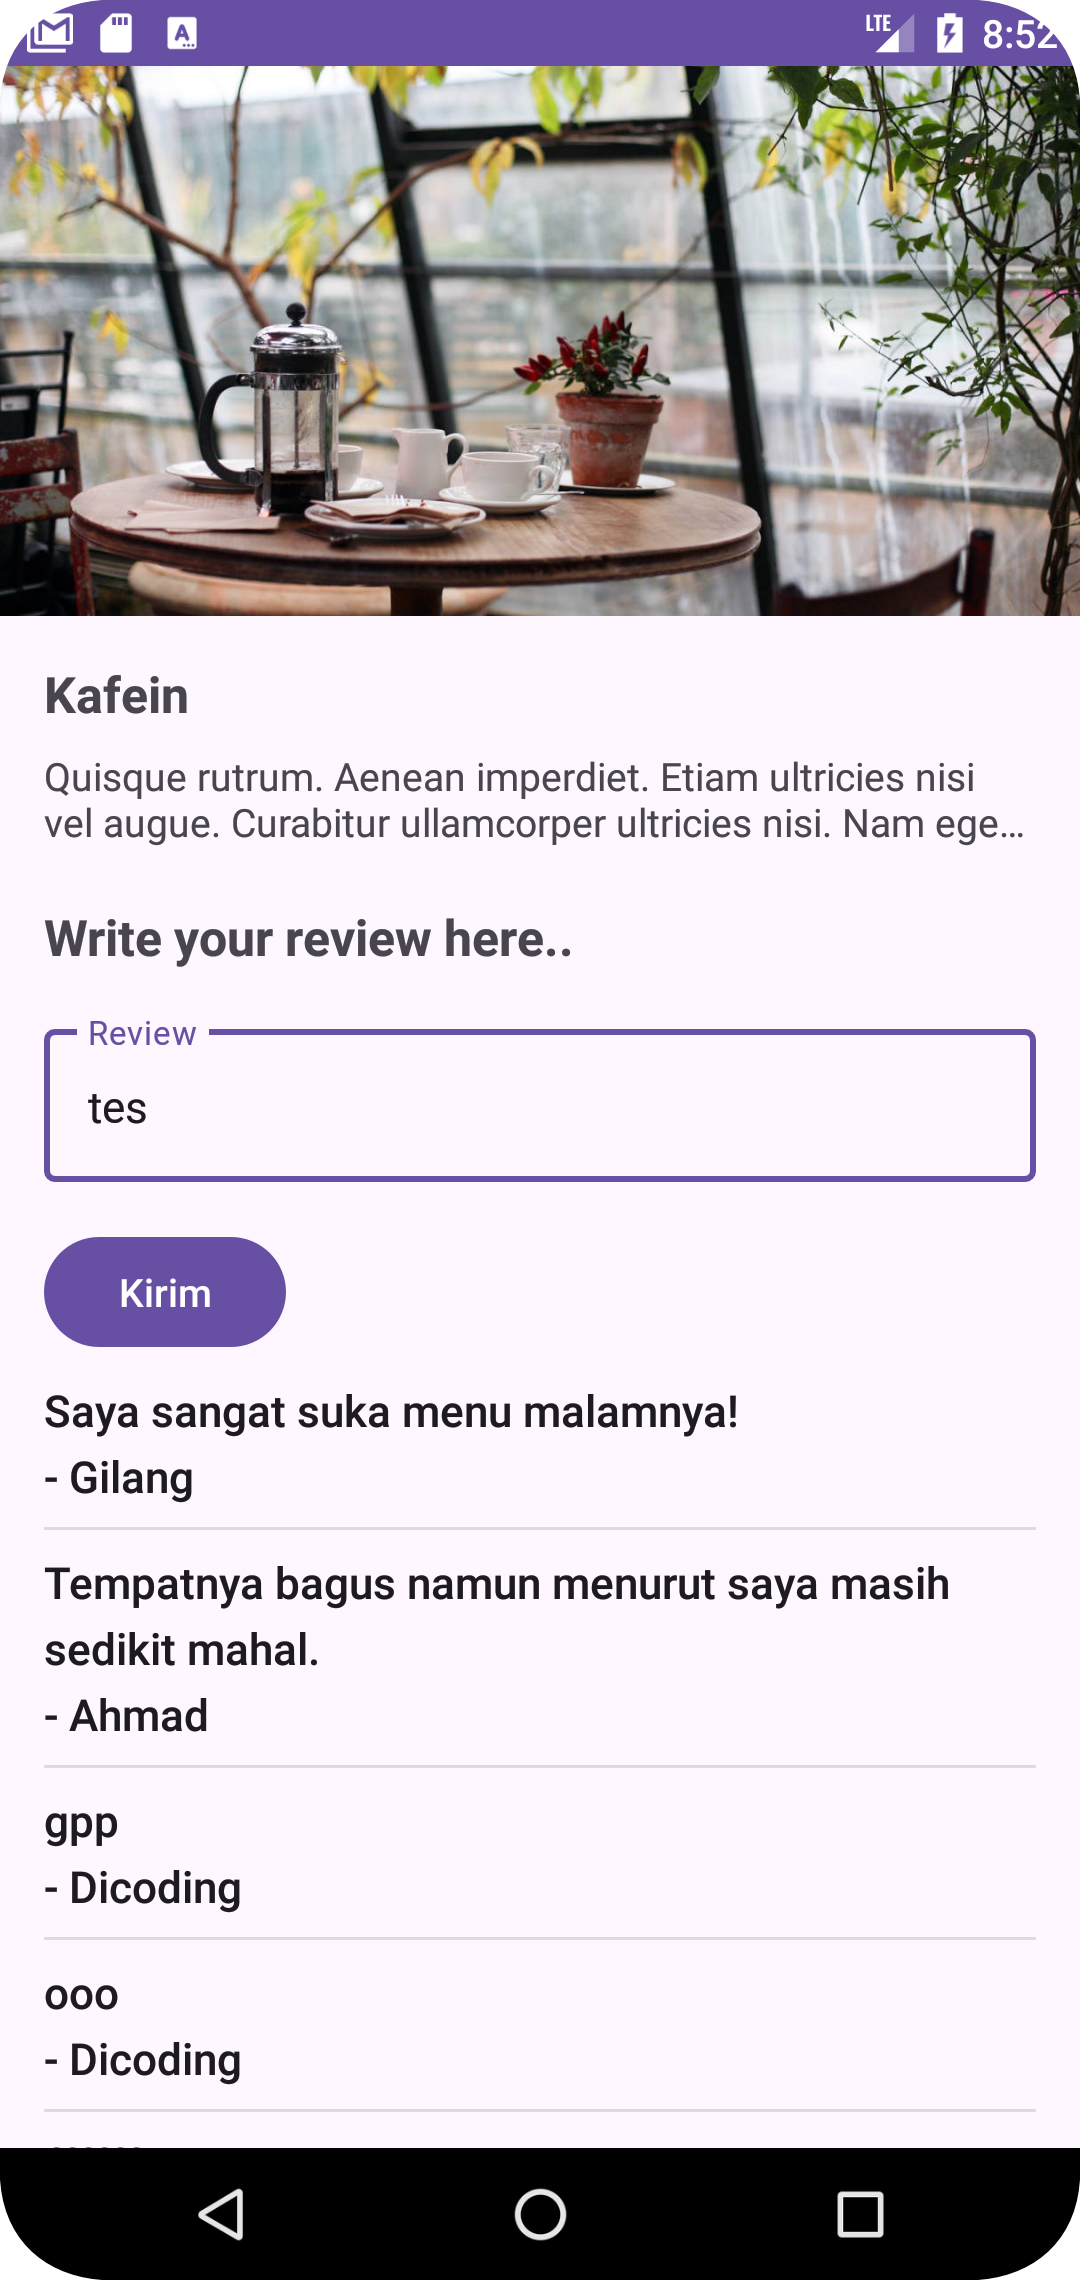
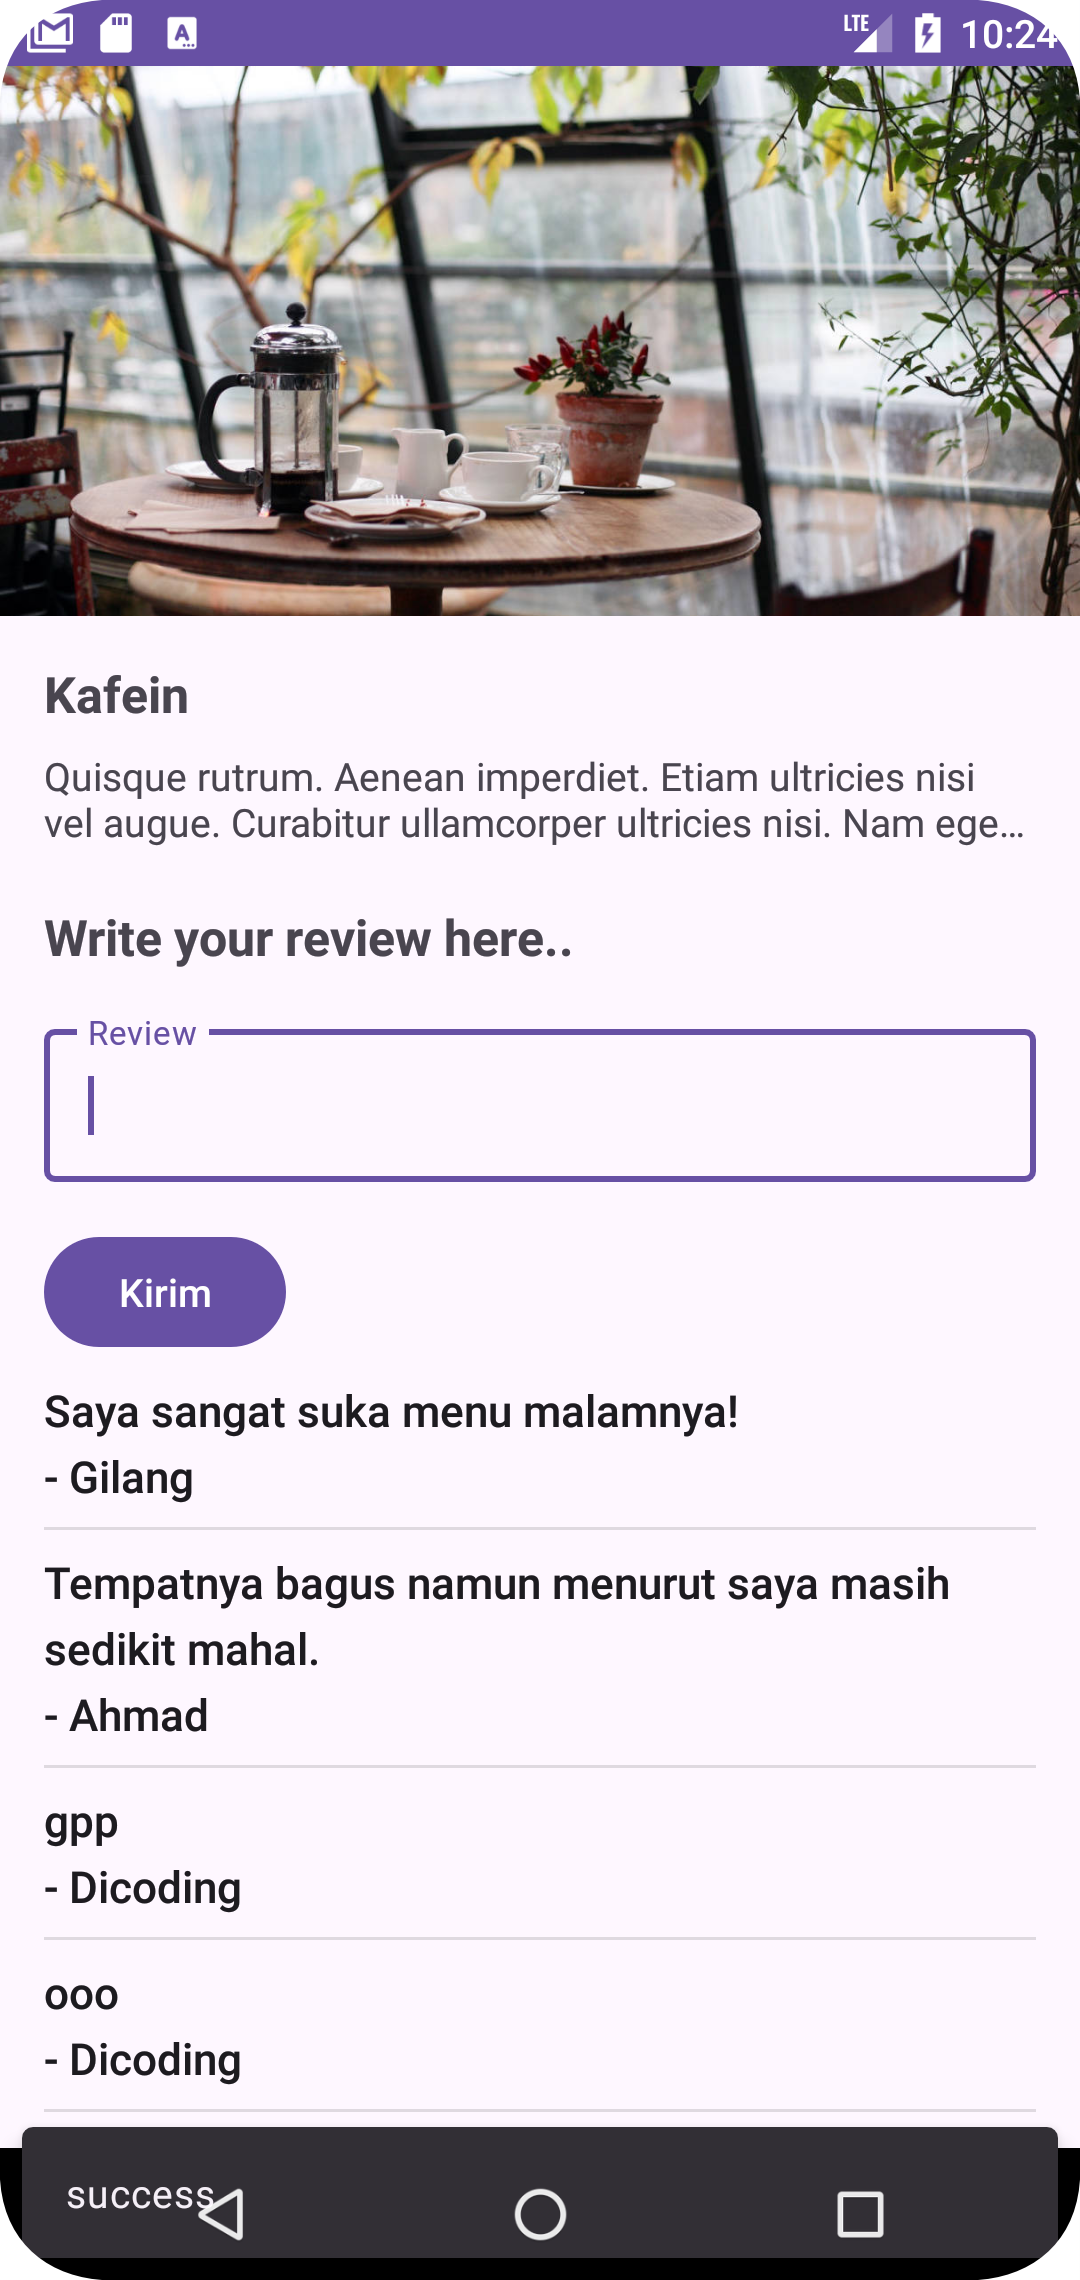
Implementing LiveData with Single Event.

diff --git a/app/src/main/java/com/kisahcode/fundamentalandroid/ui/MainViewModel.kt b/app/src/main/java/com/kisahcode/fundamentalandroid/ui/MainViewModel.kt
@@ -9,6 +9,7 @@ import com.kisahcode.fundamentalandroid.data.response.PostReviewResponse
 import com.kisahcode.fundamentalandroid.data.response.Restaurant
 import com.kisahcode.fundamentalandroid.data.response.RestaurantResponse
 import com.kisahcode.fundamentalandroid.data.retrofit.ApiConfig
+import com.kisahcode.fundamentalandroid.utils.Event
 import retrofit2.Call
 import retrofit2.Callback
 import retrofit2.Response
@@ -29,6 +30,10 @@ class MainViewModel : ViewModel() {
     // LiveData to indicate loading state
     private val _isLoading = MutableLiveData<Boolean>()
     val isLoading: LiveData<Boolean> = _isLoading
+
+    // LiveData for the snackbar text
+    private val _snackbarText = MutableLiveData<Event<String>>()
+    val snackbarText: LiveData<Event<String>> = _snackbarText
 
     companion object{
         private const val TAG = "MainViewModel"
@@ -100,6 +105,7 @@ class MainViewModel : ViewModel() {
                 // Check if the response is successful (HTTP status code 2xx)
                 if (response.isSuccessful) {
                     _listReview.value = response.body()?.customerReviews
+                    _snackbarText.value = Event(response.body()?.message.toString())
                 } else {
                     // Log an error message if the response is not successful
                     Log.e(TAG, "onFailure: ${response.message()}")

diff --git a/app/src/main/java/com/kisahcode/fundamentalandroid/ui/MainActivity.kt b/app/src/main/java/com/kisahcode/fundamentalandroid/ui/MainActivity.kt
@@ -11,6 +11,7 @@ import androidx.recyclerview.widget.DividerItemDecoration
 import androidx.recyclerview.widget.LinearLayoutManager
 
 import com.bumptech.glide.Glide
+import com.google.android.material.snackbar.Snackbar
 import com.kisahcode.fundamentalandroid.data.response.CustomerReviewsItem
 import com.kisahcode.fundamentalandroid.data.response.Restaurant
 import com.kisahcode.fundamentalandroid.databinding.ActivityMainBinding
@@ -67,6 +68,20 @@ class MainActivity : AppCompatActivity() {
         // Observe changes in loading state
         mainViewModel.isLoading.observe(this) {
             showLoading(it)
+        }
+
+
+        // Observes changes in the snackbarText LiveData within the provided lifecycle owner (activity or fragment).
+        // Upon receiving an event, this method retrieves the content if it has not been handled yet,
+        // and displays a Snackbar with the retrieved text if available.
+        mainViewModel.snackbarText.observe(this) {
+            it.getContentIfNotHandled()?.let {snackBarText->
+                Snackbar.make(
+                    window.decorView.rootView,
+                    snackBarText,
+                    Snackbar.LENGTH_SHORT
+                ).show()
+            }
         }
 
         // Set click listener for sending reviews and hiding keyboard

diff --git a/app/src/main/java/com/kisahcode/fundamentalandroid/utils/Event.kt b/app/src/main/java/com/kisahcode/fundamentalandroid/utils/Event.kt
@@ -1,0 +1,36 @@
+package com.kisahcode.fundamentalandroid.utils
+
+/**
+ * A wrapper class for data exposed via a LiveData, representing an event that should be handled only once.
+ * @param T The type of data encapsulated by this event.
+ * @property content The content of the event.
+ */
+
+open class Event<out T>(private val content: T) {
+
+    /**
+     * A flag indicating whether the event has already been handled.
+     */
+    @Suppress("MemberVisibilityCanBePrivate")
+    var hasBeenHandled = false
+        private set // Allow external read access but not write
+
+    /**
+     * Retrieves the content of the event if it has not been handled yet, marking it as handled if retrieved.
+     * @return The content of the event if not already handled, or null otherwise.
+     */
+    fun getContentIfNotHandled(): T? {
+        return if (hasBeenHandled) {
+            null
+        } else {
+            hasBeenHandled = true
+            content
+        }
+    }
+
+    /**
+     * Retrieves the content of the event, even if it has been handled already.
+     * @return The content of the event.
+     */
+    fun peekContent(): T = content
+}

diff --git a/README.md b/README.md
@@ -1,10 +1,11 @@
-# LiveData with Retrofit API
+# LiveData with Single Event
 
-This reference from [networking-retrofit](https://github.com/kisahtegar/FundamentalAndroid/tree/networking-retrofit)
-migrating using ViewModel for managing data related to the main activity and using LiveData objects 
-can be observed by components such as activities, fragments, or services, allowing them to react to 
-changes in the underlying data.
-
+This reference from [architecture-live-data-api](https://github.com/kisahtegar/FundamentalAndroid/tree/architecture-live-data-api)
+in this case app show snackbar after post. Basically LiveData will observe the data again when a 
+configuration change occurs. So, the problem is that even though LiveData is a single event, it will 
+always appear when the configuration changes. Even though functionally it shouldn't be like that. 
+To solved that we using a wrapper class for data exposed via a LiveData, representing an event that 
+should be handled only once.
 
 | Nama Project                  | RestaurantReview               |
 |-------------------------------|--------------------------------|
@@ -15,5 +16,4 @@ changes in the underlying data.
 | Build Configuration Language  | Kotlin DSL                     |
 
 <img src="preview_1.png" alt="Preview 1" width="200" height="400">
-<img src="preview_2.png" alt="Preview 2" width="200" height="400">
 
